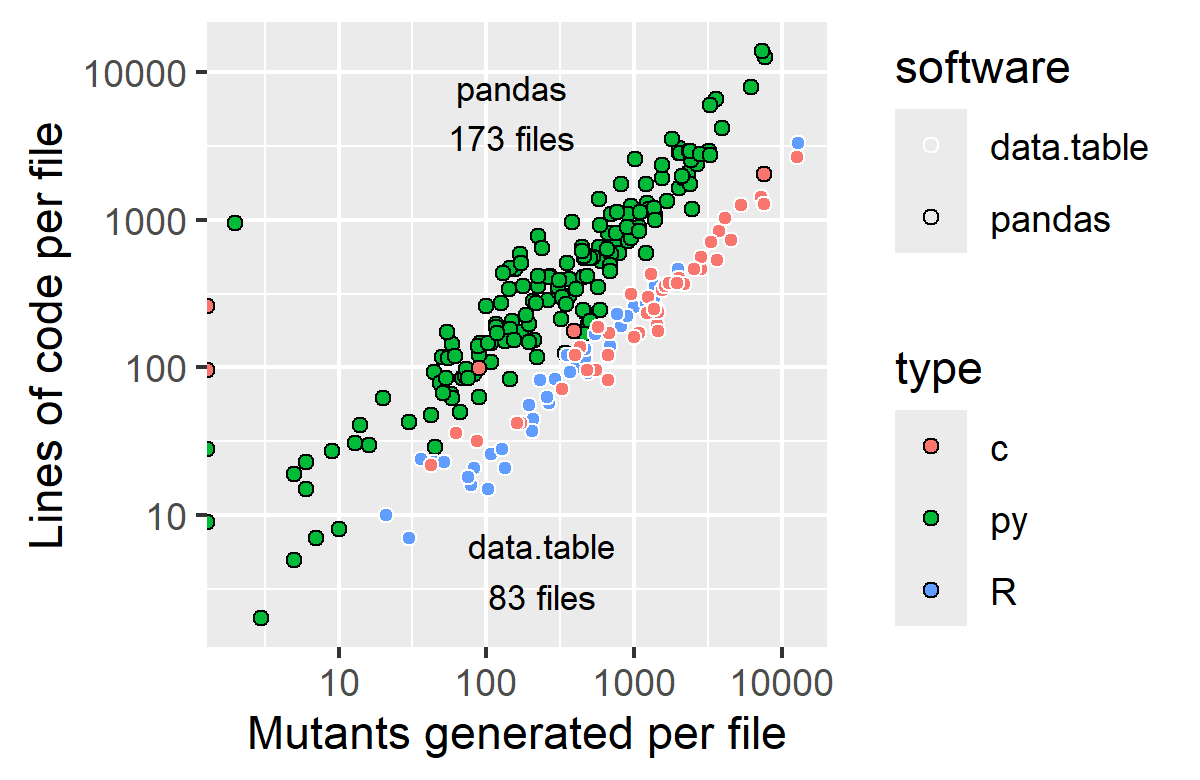
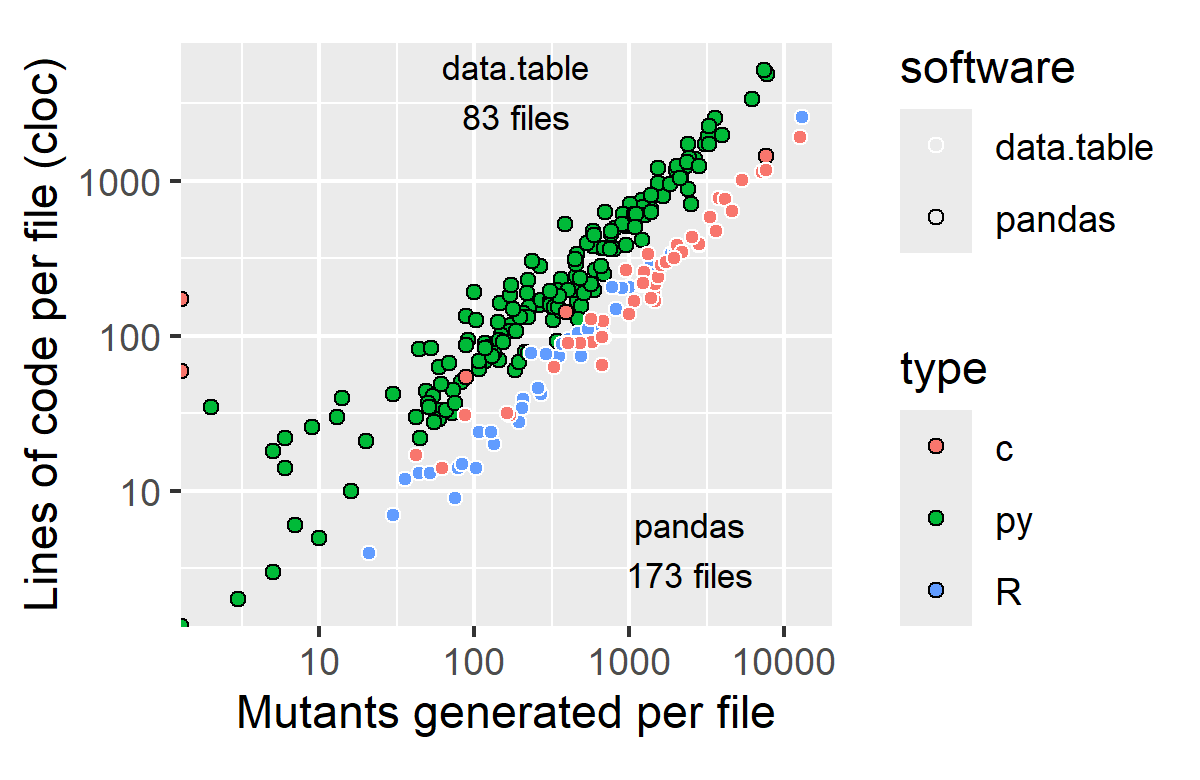
cloc

diff --git a/results-figures/table-summary.tex b/results-figures/table-summary.tex
@@ -1,14 +1,14 @@
 % latex table generated in R 4.4.0 by xtable 1.8-4 package
-% Wed Apr  3 16:24:11 2024
+% Thu Apr  4 16:05:27 2024
 \begin{tabular}{llrrrrrrrrr}
   \hline
 Software & Type & Files & Lines & Lines/File & Mutated & M\% & Mutants/Line & Mutants & MutantsOK & MOK\% \\ 
   \hline
-pandas & py & 168 & 161,380 & 960.6 & 46,089 & 28.6 & 2.9 & 132,614 & 95,962 & 72.4 \\ 
-  pandas & c &  5 & 2,666 & 533.2 & 1,313 & 49.2 & 6.2 & 8,090 & 3,893 & 48.1 \\ 
-  pandas & total & 173 & 164,046 & 948.2 & 47,402 & 28.9 & 3.0 & 140,704 & 99,855 & 71.0 \\ 
-  data.table & R & 40 & 8,354 & 208.8 & 6,336 & 75.8 & 5.4 & 34,146 & 26,928 & 78.9 \\ 
-  data.table & c & 43 & 18,037 & 419.5 & 12,178 & 67.5 & 7.4 & 89,920 & 65,078 & 72.4 \\ 
-  data.table & total & 83 & 26,391 & 318.0 & 18,514 & 70.2 & 6.7 & 124,066 & 92,006 & 74.2 \\ 
+pandas & py & 168 & 76,069 & 452.8 & 46,089 & 60.6 & 2.9 & 132,614 & 95,962 & 72.4 \\ 
+  pandas & c &  5 & 1,882 & 376.4 & 1,313 & 69.8 & 6.2 & 8,090 & 3,893 & 48.1 \\ 
+  pandas & total & 173 & 77,951 & 450.6 & 47,402 & 60.8 & 3.0 & 140,704 & 99,855 & 71.0 \\ 
+  data.table & R & 40 & 6,598 & 164.9 & 6,336 & 96.0 & 5.4 & 34,146 & 26,928 & 78.9 \\ 
+  data.table & c & 43 & 14,760 & 343.3 & 12,178 & 82.5 & 7.4 & 89,920 & 65,078 & 72.4 \\ 
+  data.table & total & 83 & 21,358 & 257.3 & 18,514 & 86.7 & 6.7 & 124,066 & 92,006 & 74.2 \\ 
    \hline
 \end{tabular}

diff --git a/results-figures/table-useful-checks.tex b/results-figures/table-useful-checks.tex
@@ -1,5 +1,5 @@
 % latex table generated in R 4.4.0 by xtable 1.8-4 package
-% Wed Apr  3 16:24:39 2024
+% Thu Apr  4 16:05:28 2024
 \begin{tabular}{lr}
   \hline
 check & count \\ 
